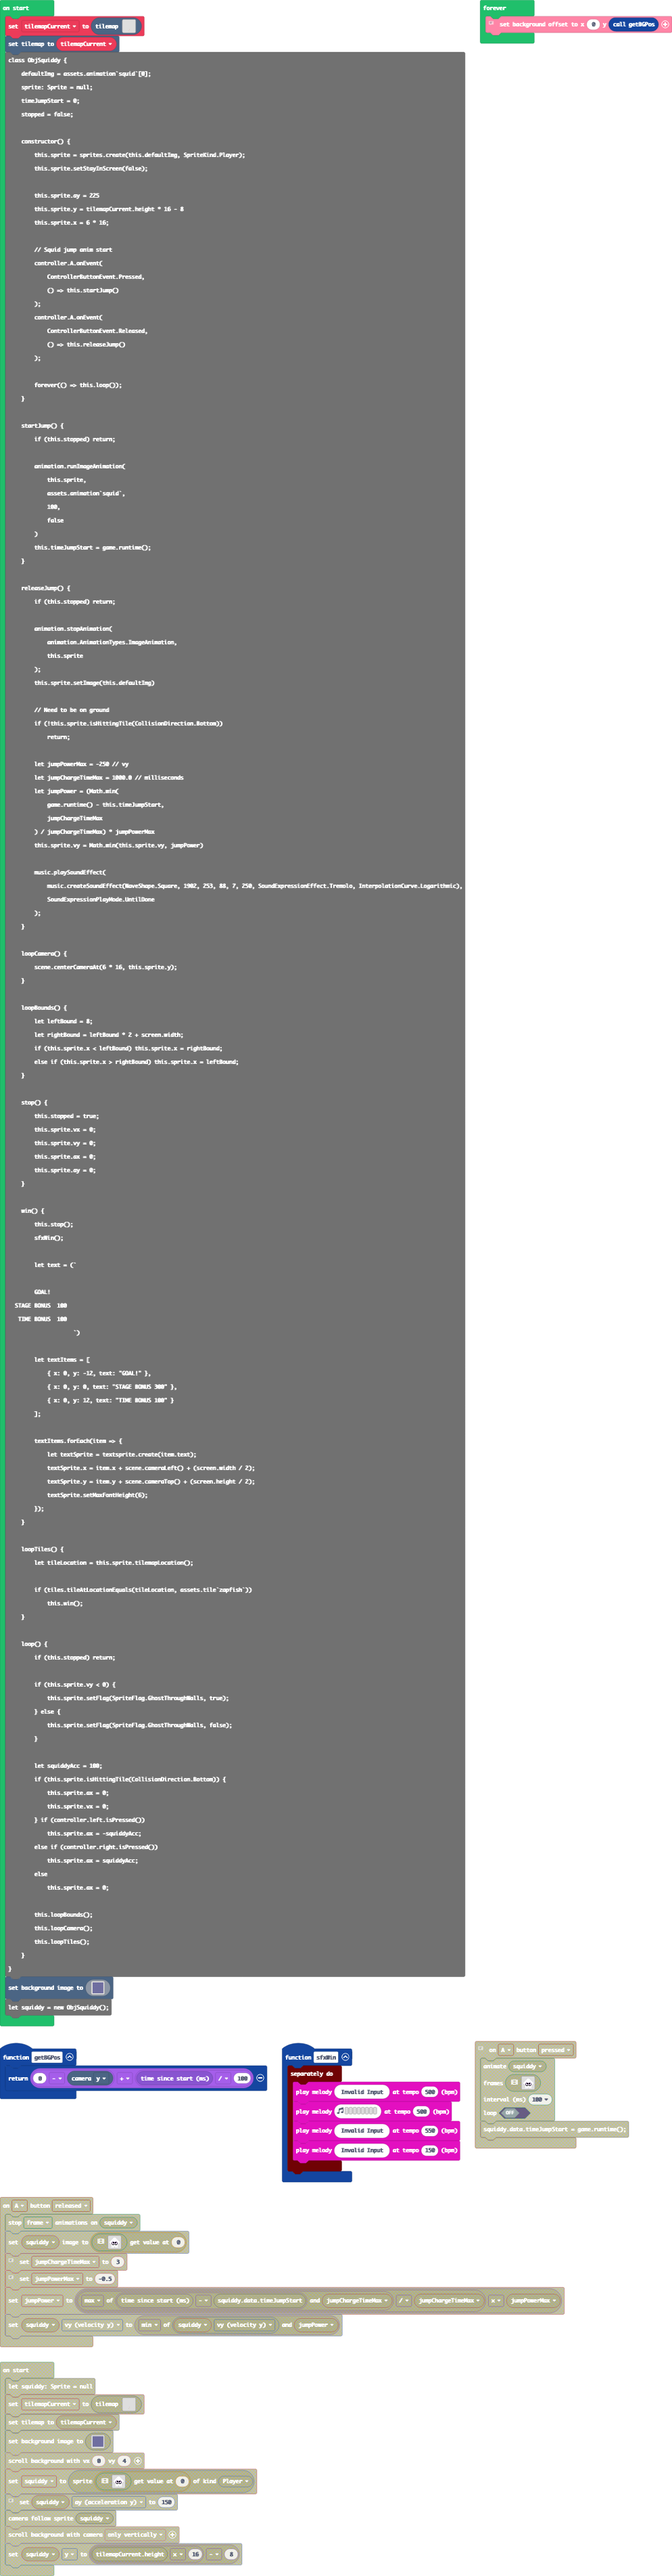
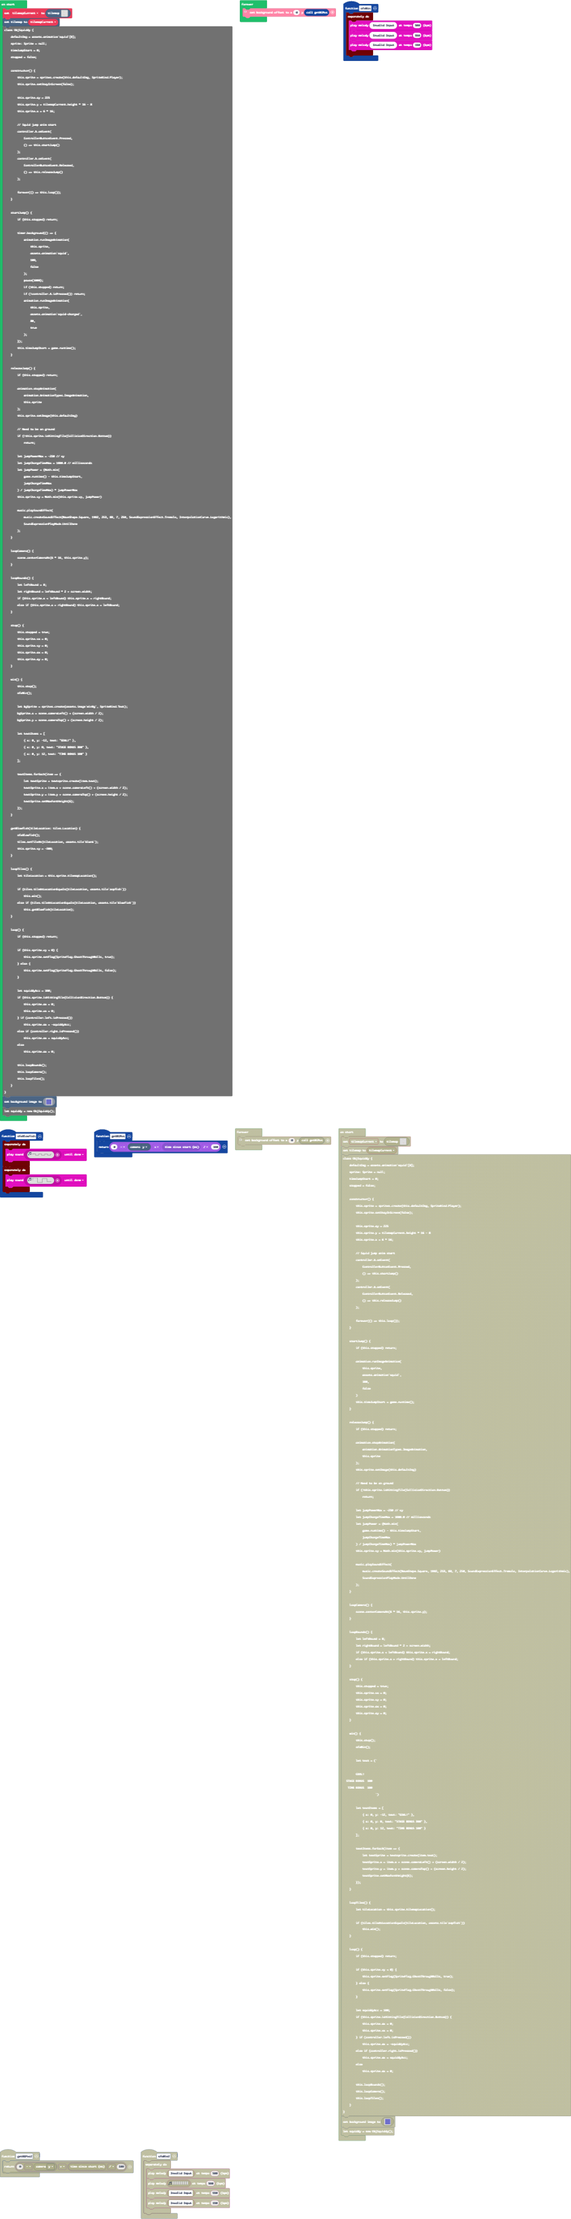
its a tiny lil squid jump

diff --git a/tilemap.g.ts b/tilemap.g.ts
@@ -6,11 +6,34 @@ namespace myTiles {
     export const tile1 = image.ofBuffer(hex``);
     //% fixedInstance jres blockIdentity=images._tile
     export const tile2 = image.ofBuffer(hex``);
+    //% fixedInstance jres blockIdentity=images._tile
+    export const tile3 = image.ofBuffer(hex``);
+    //% fixedInstance jres blockIdentity=images._tile
+    export const tile4 = image.ofBuffer(hex``);
 
     helpers._registerFactory("tilemap", function(name: string) {
         switch(helpers.stringTrim(name)) {
+            case "level2":
+            case "level2":return tiles.createTilemap(hex`1000100000000000000000000000000000000000000000000000000000000000000000000000000000000000000000000000000000000000000000000000000000000000000000000000000000000000000000000000000000000000000000000000000000000000000000000000000000000000000000000000000000000000000000000000000000000000000000000000000000000000000000000000000000000000000000000000000000000000000000000000000000000000000000000000000000000000000000000000000000000000000000000000000000000000000000000000000000000000000000000000000000000000000000000000000000000000`, img`
+. . . . . . . . . . . . . . . . 
+. . . . . . . . . . . . . . . . 
+. . . . . . . . . . . . . . . . 
+. . . . . . . . . . . . . . . . 
+. . . . . . . . . . . . . . . . 
+. . . . . . . . . . . . . . . . 
+. . . . . . . . . . . . . . . . 
+. . . . . . . . . . . . . . . . 
+. . . . . . . . . . . . . . . . 
+. . . . . . . . . . . . . . . . 
+. . . . . . . . . . . . . . . . 
+. . . . . . . . . . . . . . . . 
+. . . . . . . . . . . . . . . . 
+. . . . . . . . . . . . . . . . 
+. . . . . . . . . . . . . . . . 
+. . . . . . . . . . . . . . . . 
+`, [myTiles.transparency16], TileScale.Sixteen);
             case "level":
[2 lines of base64/hex data omitted]
 ............
 ............
 ............
@@ -21,6 +44,11 @@ namespace myTiles {
 ............
 ............
 ............
+.222........
+............
+............
+............
+.......222..
 ............
 ............
 ............
@@ -31,6 +59,15 @@ namespace myTiles {
 ............
 ............
 ............
+..222.......
+............
+............
+............
+............
+............
+............
+............
+.......222..
 ............
 ............
 ............
@@ -39,21 +76,7 @@ namespace myTiles {
 ............
 ............
 ............
-............
-............
-............
-............
-............
-............
-............
-............
-............
-............
-............
-............
-............
-............
-............
+..222.......
 ............
 ............
 ............
@@ -75,26 +98,7 @@ namespace myTiles {
 ............
 ............
 ............
-`, [myTiles.transparency16,myTiles.tile1,myTiles.tile2], TileScale.Sixteen);
-            case "level2":
-            case "level2":return tiles.createTilemap(hex`1000100000000000000000000000000000000000000000000000000000000000000000000000000000000000000000000000000000000000000000000000000000000000000000000000000000000000000000000000000000000000000000000000000000000000000000000000000000000000000000000000000000000000000000000000000000000000000000000000000000000000000000000000000000000000000000000000000000000000000000000000000000000000000000000000000000000000000000000000000000000000000000000000000000000000000000000000000000000000000000000000000000000000000000000000000000000000`, img`
-. . . . . . . . . . . . . . . . 
-. . . . . . . . . . . . . . . . 
-. . . . . . . . . . . . . . . . 
-. . . . . . . . . . . . . . . . 
-. . . . . . . . . . . . . . . . 
-. . . . . . . . . . . . . . . . 
-. . . . . . . . . . . . . . . . 
-. . . . . . . . . . . . . . . . 
-. . . . . . . . . . . . . . . . 
-. . . . . . . . . . . . . . . . 
-. . . . . . . . . . . . . . . . 
-. . . . . . . . . . . . . . . . 
-. . . . . . . . . . . . . . . . 
-. . . . . . . . . . . . . . . . 
-. . . . . . . . . . . . . . . . 
-. . . . . . . . . . . . . . . . 
-`, [myTiles.transparency16], TileScale.Sixteen);
+`, [myTiles.transparency16,myTiles.tile1,myTiles.tile2,myTiles.tile3], TileScale.Sixteen);
         }
         return null;
     })
@@ -106,6 +110,10 @@ namespace myTiles {
             case "tile1":return tile1;
             case "zapfish":
             case "tile2":return tile2;
+            case "blowfish":
+            case "tile3":return tile3;
+            case "blank":
+            case "tile4":return tile4;
         }
         return null;
     })

diff --git a/main.ts b/main.ts
@@ -3,12 +3,22 @@ function getBGPos () {
 }
 function sfxWin () {
     timer.background(function () {
-        music.playMelody("G5", 500)
-        music.playMelody("-", 500)
+        music.playMelody("G5 -", 500)
         music.playMelody("G5", 550)
         music.playMelody("C6", 150)
     })
 }
+
+function sfxBlowfish() {
+    timer.background(() => {
+        music.playSoundEffect(music.createSoundEffect(WaveShape.Square, 2437, 2482, 74, 43, 100, SoundExpressionEffect.None, InterpolationCurve.Linear), SoundExpressionPlayMode.UntilDone);
+    });
+
+    timer.background(() => {
+        music.playSoundEffect(music.createSoundEffect(WaveShape.Square, 208, 565, 255, 88, 500, SoundExpressionEffect.Vibrato, InterpolationCurve.Linear), SoundExpressionPlayMode.UntilDone)
+    });
+}
+
 let tilemapCurrent = tilemap`level`
 tiles.setCurrentTilemap(tilemapCurrent)
 class ObjSquiddy {
@@ -129,11 +139,19 @@ class ObjSquiddy {
         });
     }
 
+    getBlowfish(tileLocation: tiles.Location) {
+        sfxBlowfish();
+        tiles.setTileAt(tileLocation, assets.tile`blank`);
+        this.sprite.vy = -300;
+    }
+
     loopTiles() {
         let tileLocation = this.sprite.tilemapLocation();
 
         if (tiles.tileAtLocationEquals(tileLocation, assets.tile`zapfish`))
             this.win();
+        else if (tiles.tileAtLocationEquals(tileLocation, assets.tile`blowfish`))
+            this.getBlowfish(tileLocation);
     }
 
     loop() {
